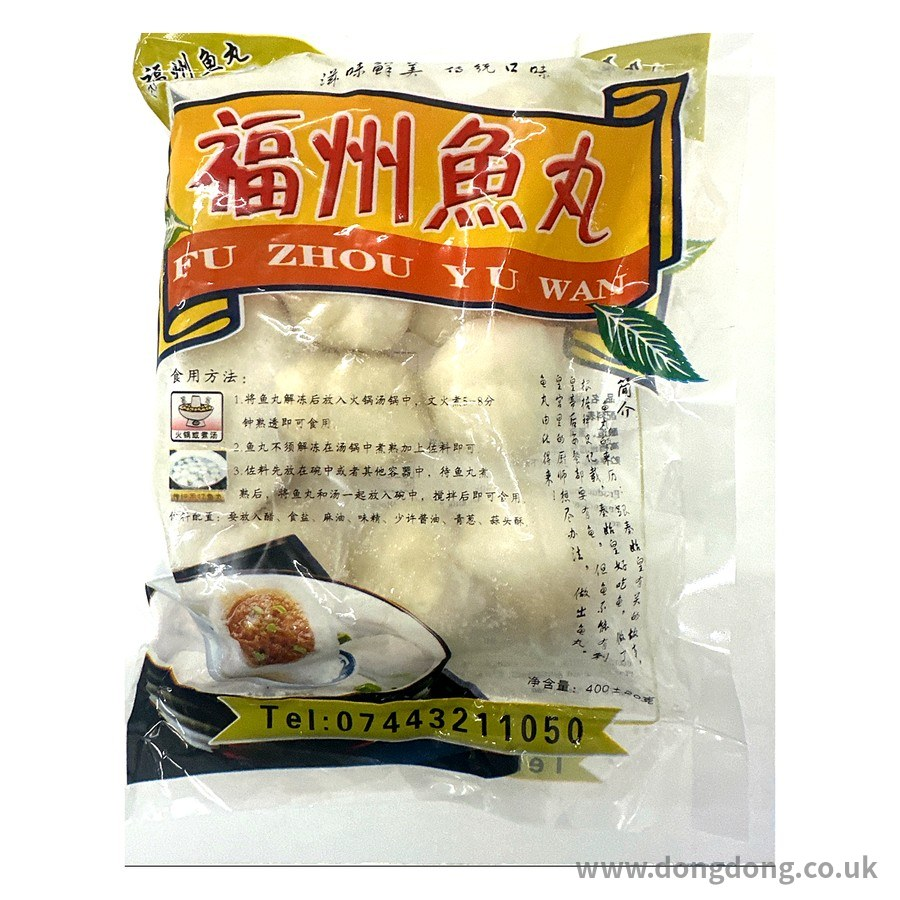
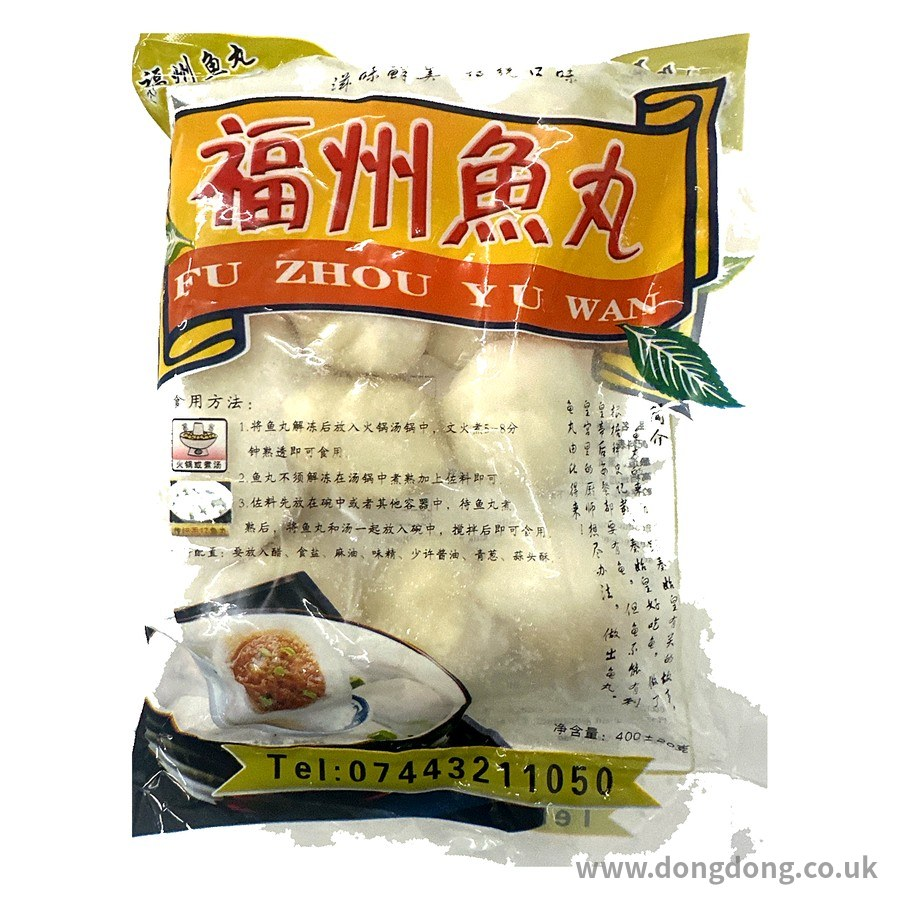
炸鱼丸 200g 换实拍高清图；福州鱼丸背景再修白
Claude-Session: https://claude.ai/code/session_01EapkdAZuY1J5DZKGNmtVd8

diff --git a/classic.html b/classic.html
@@ -1003,7 +1003,7 @@ const PRODUCTS_RAW=[
  {"c": "hotpot", "zh": "鲜洋码头虾滑", "en": "Fresh Pier Shrimp Paste", "spec": "150g", "price": 3.69, "img": "img/p11_20.jpg"},
  {"c": "hotpot", "zh": "Green Asia 冷冻莲藕片", "en": "Green Asia Frozen Lotus Slices", "spec": "500g", "price": 3.49, "img": "img/p12_01.jpg"},
  {"c": "hotpot", "zh": "东方龙冷冻莲藕片", "en": "Oriental Dragon Frozen Lotus Root Slices", "spec": "454g", "price": 2.99, "img": "img/nw_p12_02.jpg"},
- {"c": "hotpot", "zh": "炸鱼丸", "en": "Fried Fish Balls", "spec": "200g", "price": 2.35, "img": "img/p12_03.jpg"},
+ {"c": "hotpot", "zh": "炸鱼丸", "en": "Fried Fish Balls", "spec": "200g", "price": 2.35, "img": "img/hd_fried_fishball200.jpg"},
  {"c": "hotpot", "zh": "紫菜腐皮卷", "en": "Seafood Tofu Curds", "spec": "200g", "price": 2.39, "img": "img/p12_04.jpg"},
  {"c": "hotpot", "zh": "EB 鱼籽福袋", "en": "EB Fish Roe Lucky Bag", "spec": "150g", "price": 3.75, "img": "img/p12_05.jpg"},
  {"c": "hotpot", "zh": "EB 小叶虾滑", "en": "EB MyDaun Prawn Paste", "spec": "130g", "price": 3.55, "img": "img/nw_p12_06.jpg"},

diff --git a/index.html b/index.html
@@ -1184,7 +1184,7 @@ const PRODUCTS_RAW=[
  {"c": "hotpot", "zh": "鲜洋码头虾滑", "en": "Fresh Pier Shrimp Paste", "spec": "150g", "price": 3.69, "img": "img/p11_20.jpg"},
  {"c": "hotpot", "zh": "Green Asia 冷冻莲藕片", "en": "Green Asia Frozen Lotus Slices", "spec": "500g", "price": 3.49, "img": "img/p12_01.jpg"},
  {"c": "hotpot", "zh": "东方龙冷冻莲藕片", "en": "Oriental Dragon Frozen Lotus Root Slices", "spec": "454g", "price": 2.99, "img": "img/nw_p12_02.jpg"},
- {"c": "hotpot", "zh": "炸鱼丸", "en": "Fried Fish Balls", "spec": "200g", "price": 2.35, "img": "img/p12_03.jpg"},
+ {"c": "hotpot", "zh": "炸鱼丸", "en": "Fried Fish Balls", "spec": "200g", "price": 2.35, "img": "img/hd_fried_fishball200.jpg"},
  {"c": "hotpot", "zh": "紫菜腐皮卷", "en": "Seafood Tofu Curds", "spec": "200g", "price": 2.39, "img": "img/p12_04.jpg"},
  {"c": "hotpot", "zh": "EB 鱼籽福袋", "en": "EB Fish Roe Lucky Bag", "spec": "150g", "price": 3.75, "img": "img/p12_05.jpg"},
  {"c": "hotpot", "zh": "EB 小叶虾滑", "en": "EB MyDaun Prawn Paste", "spec": "130g", "price": 3.55, "img": "img/nw_p12_06.jpg"},
